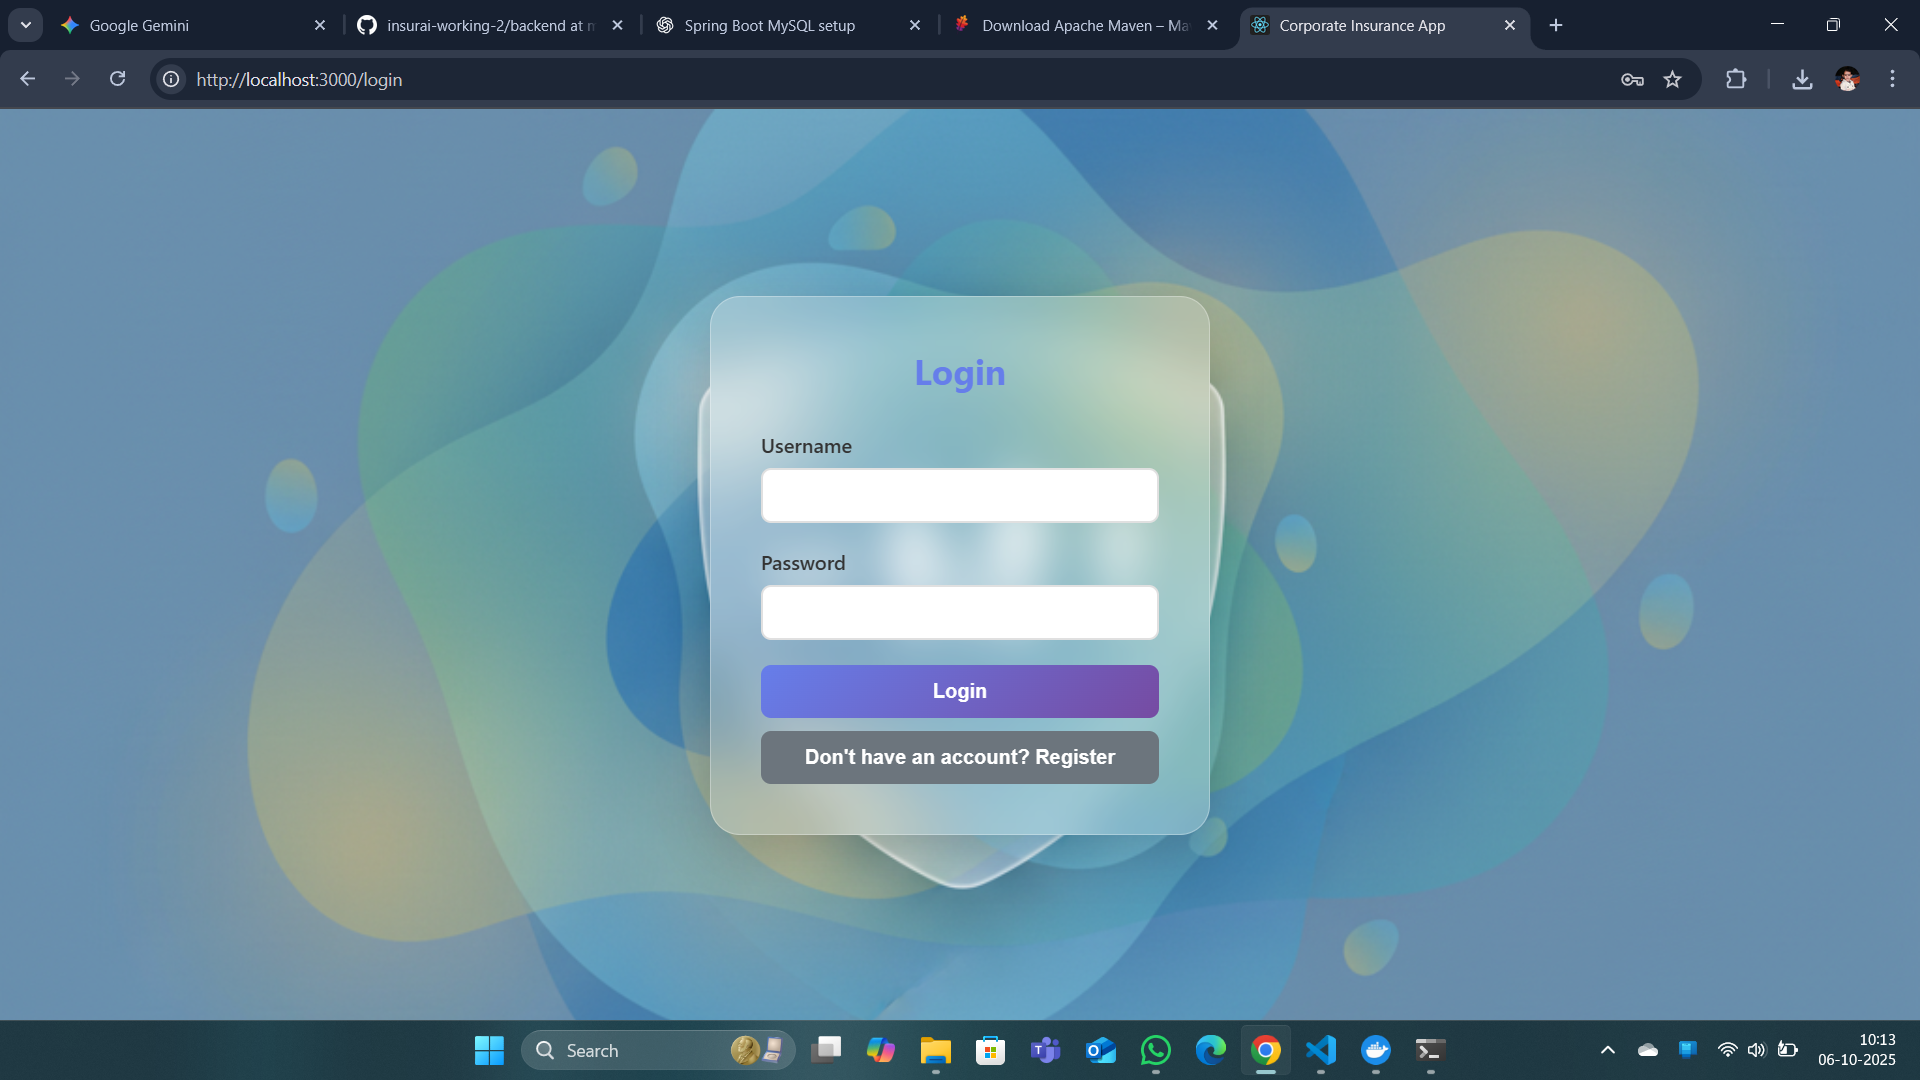
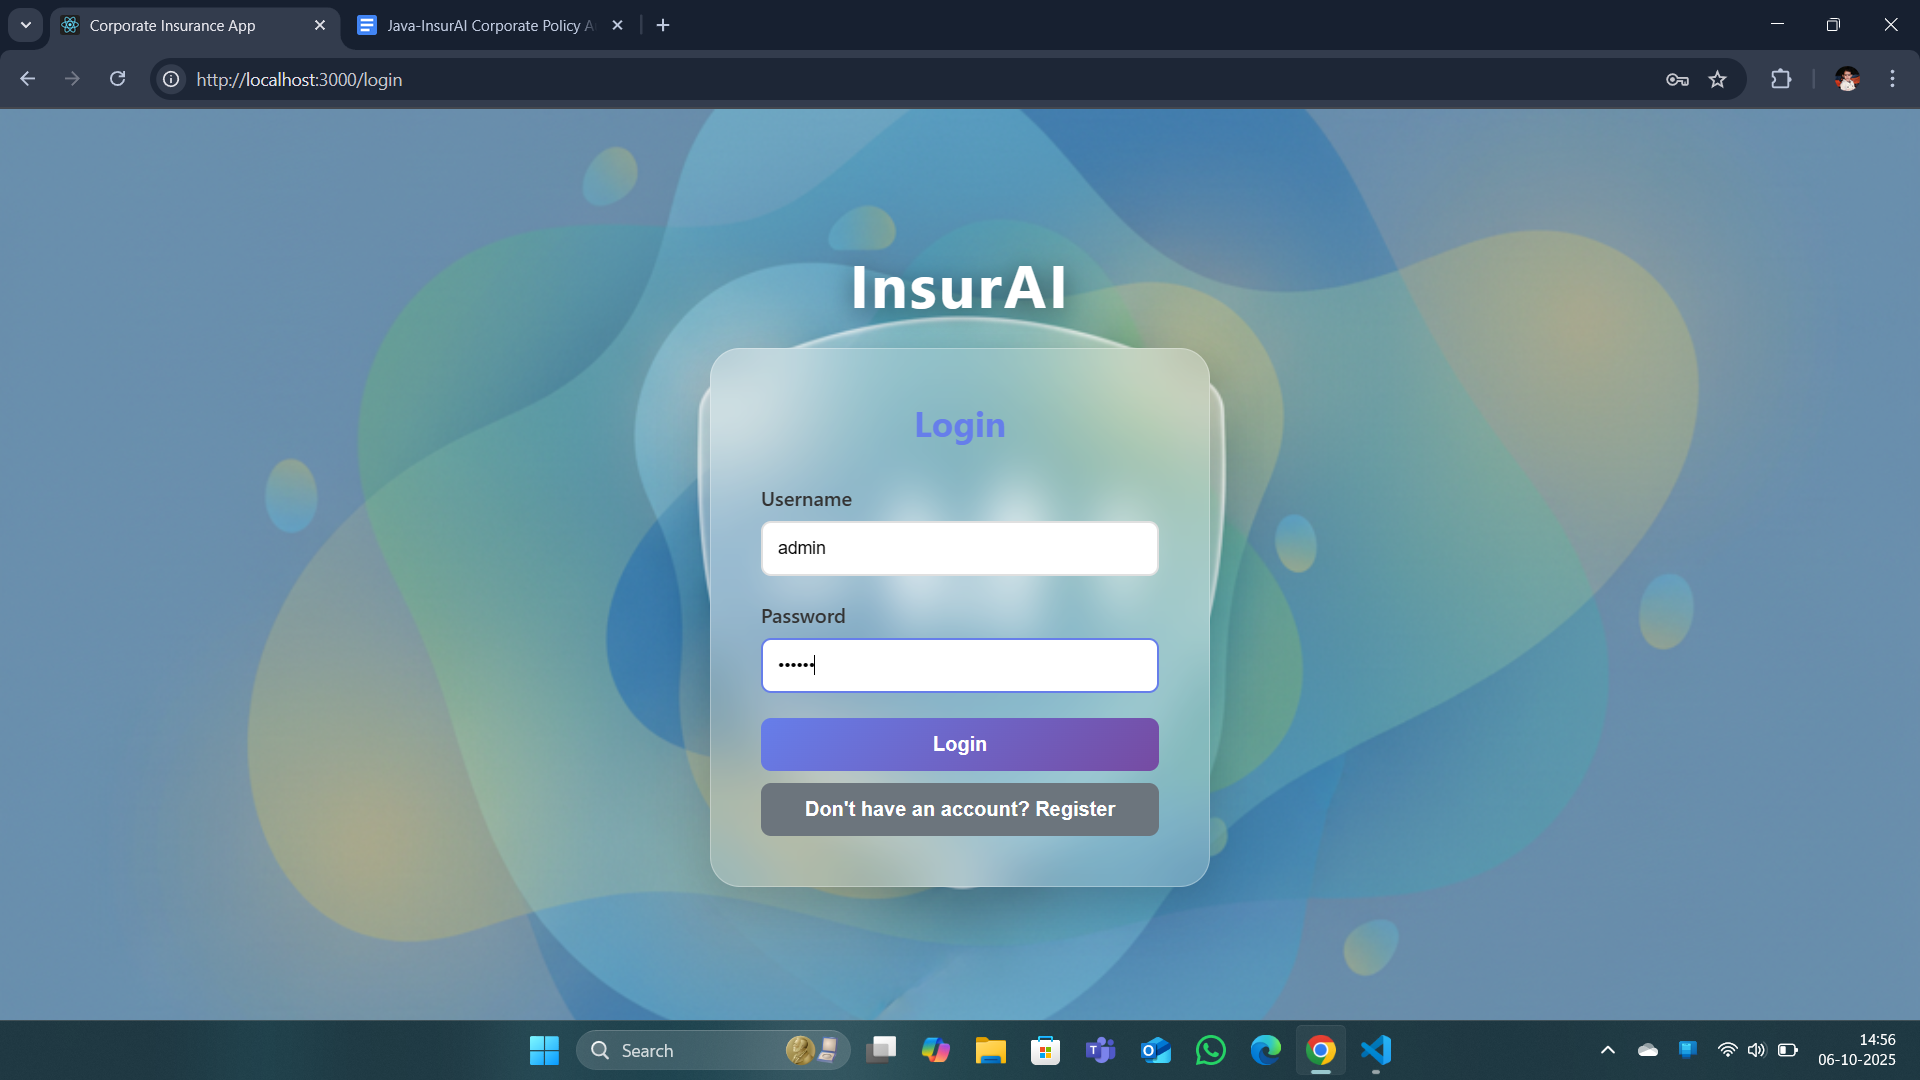
update

diff --git a/frontend/src/pages/Login.js b/frontend/src/pages/Login.js
@@ -1,4 +1,4 @@
-import React, { useState } from "react";
+import React, { useState, useEffect } from "react";
 import { userAPI } from "../services/api";
 
 function Login({ onLogin }) {
@@ -9,6 +9,17 @@ function Login({ onLogin }) {
     role: "CUSTOMER",
   });
   const [error, setError] = useState("");
+  const [expanded, setExpanded] = useState(false);
+  const [visible, setVisible] = useState(false);
+
+  // Trigger a slow initial appear when the component mounts
+  useEffect(() => {
+    const t = setTimeout(() => {
+      setVisible(true);
+      setExpanded(true);
+    }, 50);
+    return () => clearTimeout(t);
+  }, []);
 
   const handleChange = (e) => {
     setFormData({
@@ -51,10 +62,12 @@ function Login({ onLogin }) {
 
   return (
     <div className="login-container">
-      <div className="login-box">
+      <h1 className="app-heading">InsurAI</h1>
+      <div className={`login-box ${visible ? "visible" : "hidden"}`}>
         <h2>{isRegister ? "Register" : "Login"}</h2>
         {error && <div className="error-message">{error}</div>}
-        <form onSubmit={handleSubmit}>
+        <div className={`form-collapse ${expanded || isRegister ? "open" : ""}`}>
+          <form onSubmit={handleSubmit}>
           <div className="form-group">
             <label>Username</label>
             <input
@@ -87,17 +100,18 @@ function Login({ onLogin }) {
           )}
           <button type="submit" className="btn">
             {isRegister ? "Register" : "Login"}
-          </button>
-          <button
-            type="button"
-            className="btn btn-secondary"
-            onClick={() => setIsRegister(!isRegister)}
-          >
-            {isRegister
-              ? "Already have an account? Login"
-              : "Don't have an account? Register"}
-          </button>
-        </form>
+            </button>
+          </form>
+        </div>
+        <button
+          type="button"
+          className="btn btn-secondary"
+          onClick={() => setIsRegister(!isRegister)}
+        >
+          {isRegister
+            ? "Already have an account? Login"
+            : "Don't have an account? Register"}
+        </button>
       </div>
     </div>
   );

diff --git a/frontend/src/index.css b/frontend/src/index.css
@@ -40,10 +40,23 @@ body {
 
 .login-container {
   display: flex;
+  flex-direction: column;
   justify-content: center;
   align-items: center;
+  gap: 20px;
   min-height: 100vh;
   padding: 20px;
+}
+
+/* App heading displayed above the login box and visible immediately */
+.app-heading {
+  font-size: 48px;
+  color: #ffffff;
+  text-align: center;
+  letter-spacing: 2px;
+  text-shadow: 0 4px 20px rgba(0,0,0,0.5);
+  margin-bottom: 0;
+  z-index: 2;
 }
 
 .login-box {
@@ -370,6 +383,32 @@ table tbody tr:hover {
   border: 1px solid rgba(255, 255, 255, 0.3);
   border-radius: 24px !important;
   box-shadow: 0 12px 40px rgba(0, 0, 0, 0.15) !important;
+}
+
+/* Make the whole login box initially hidden and slowly appear */
+.login-box.hidden {
+  opacity: 0;
+  transform: translateY(-20px) scale(0.995);
+  pointer-events: none;
+}
+
+.login-box.visible {
+  opacity: 1;
+  transform: translateY(0) scale(1);
+  transition: opacity 3s ease, transform 3s ease;
+  pointer-events: auto;
+}
+
+/* Slow slide collapse for the login form (15s) */
+.form-collapse {
+  max-height: 0;
+  overflow: hidden;
+  transition: max-height 5s ease;
+}
+
+.form-collapse.open {
+  /* large enough to contain the form comfortably */
+  max-height: 800px;
 }
 
 /* Enhanced Cards with Glass Effect */

diff --git a/readme.md b/readme.md
@@ -1,19 +1,22 @@
-# Group C  
-## GitHub Collaborator Status  
+# Group C
 
-| S.No | Name                       | Status                                      |
-|------|----------------------------|---------------------------------------------|
-| 1    | Sangoji Pranav             | joined                                      |
-| 2    | Rakesh Kummari             | joined                                      |
-| 3    | MURABOYINA HARSHINI PRIYA  | joined                                      |
-| 4    | KARTHICK VENUGOPAL         | didn't invite (didn't updated GitHub username) |
-| 5    | Dheepika Sekar             | didn't invite (didn't updated GitHub username) |
-| 6    | Mithunraj M                | joined |
+## GitHub Collaborator Status
+
+| S.No | Name                      | Status                                         |
+| ---- | ------------------------- | ---------------------------------------------- |
+| 1    | Sangoji Pranav            | joined                                         |
+| 2    | Rakesh Kummari            | joined                                         |
+| 3    | MURABOYINA HARSHINI PRIYA | joined                                         |
+| 4    | KARTHICK VENUGOPAL        | didn't invite (didn't updated GitHub username) |
+| 5    | Dheepika Sekar            | didn't invite (didn't updated GitHub username) |
+| 6    | Mithunraj M               | joined                                         |
 
 #### **Mentor:** Niti-Dwivedi — Invitation sent
+
 <div style="display:flex;gap:10px;">
   <h2>milestone 1 </h2>
   <img src="./a.png" height="400px" width="500px">
     <img src="./b.png" height="400px" width="500px">
     <img src="./c.png" height="400px" width="500px">
+      <img src="./d.png" height="400px" width="500px">
 </div>
